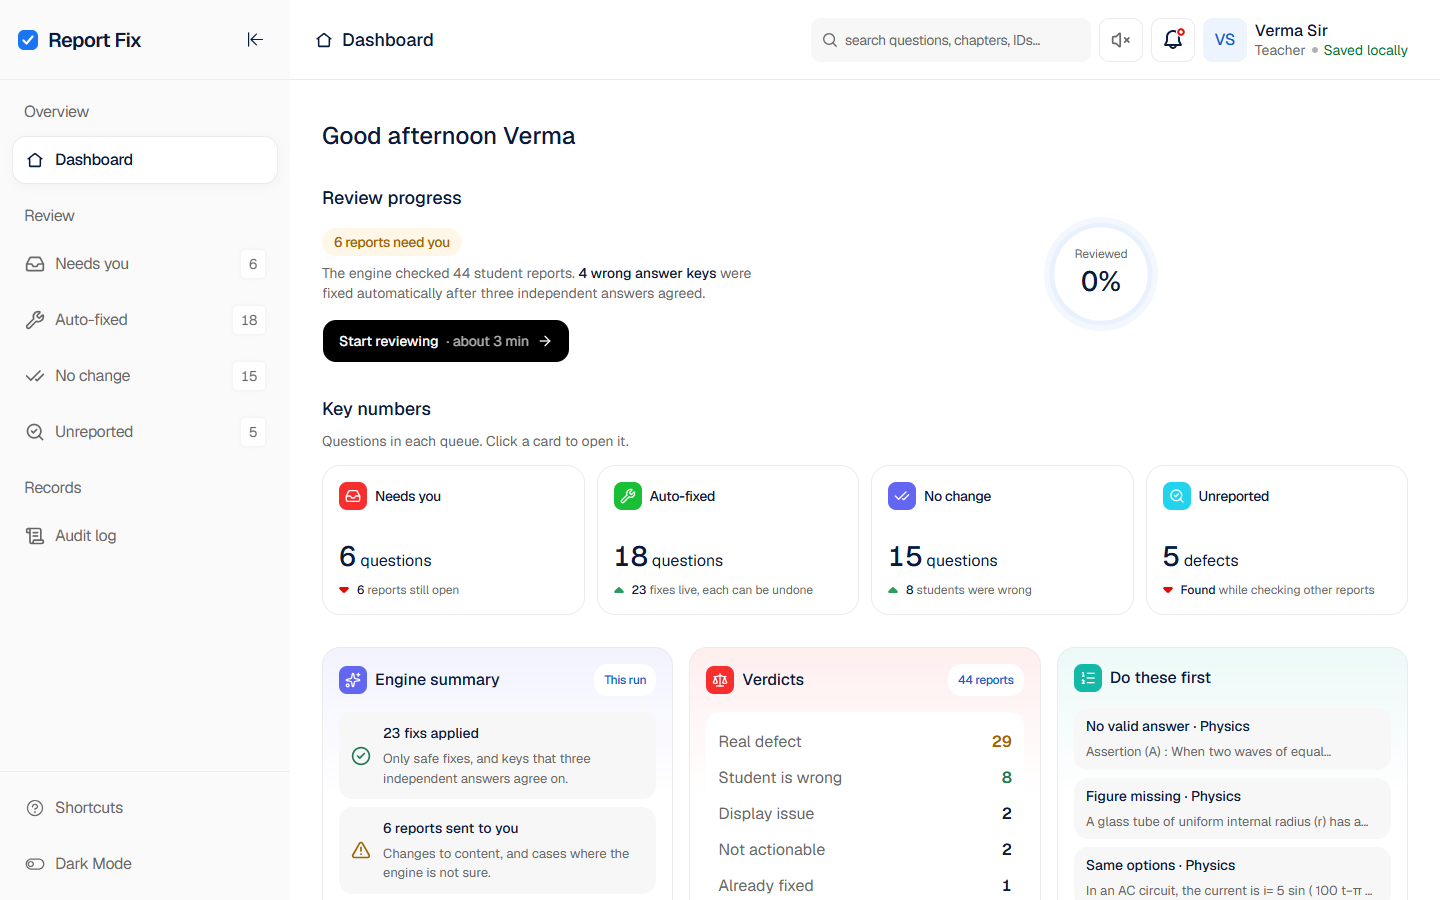
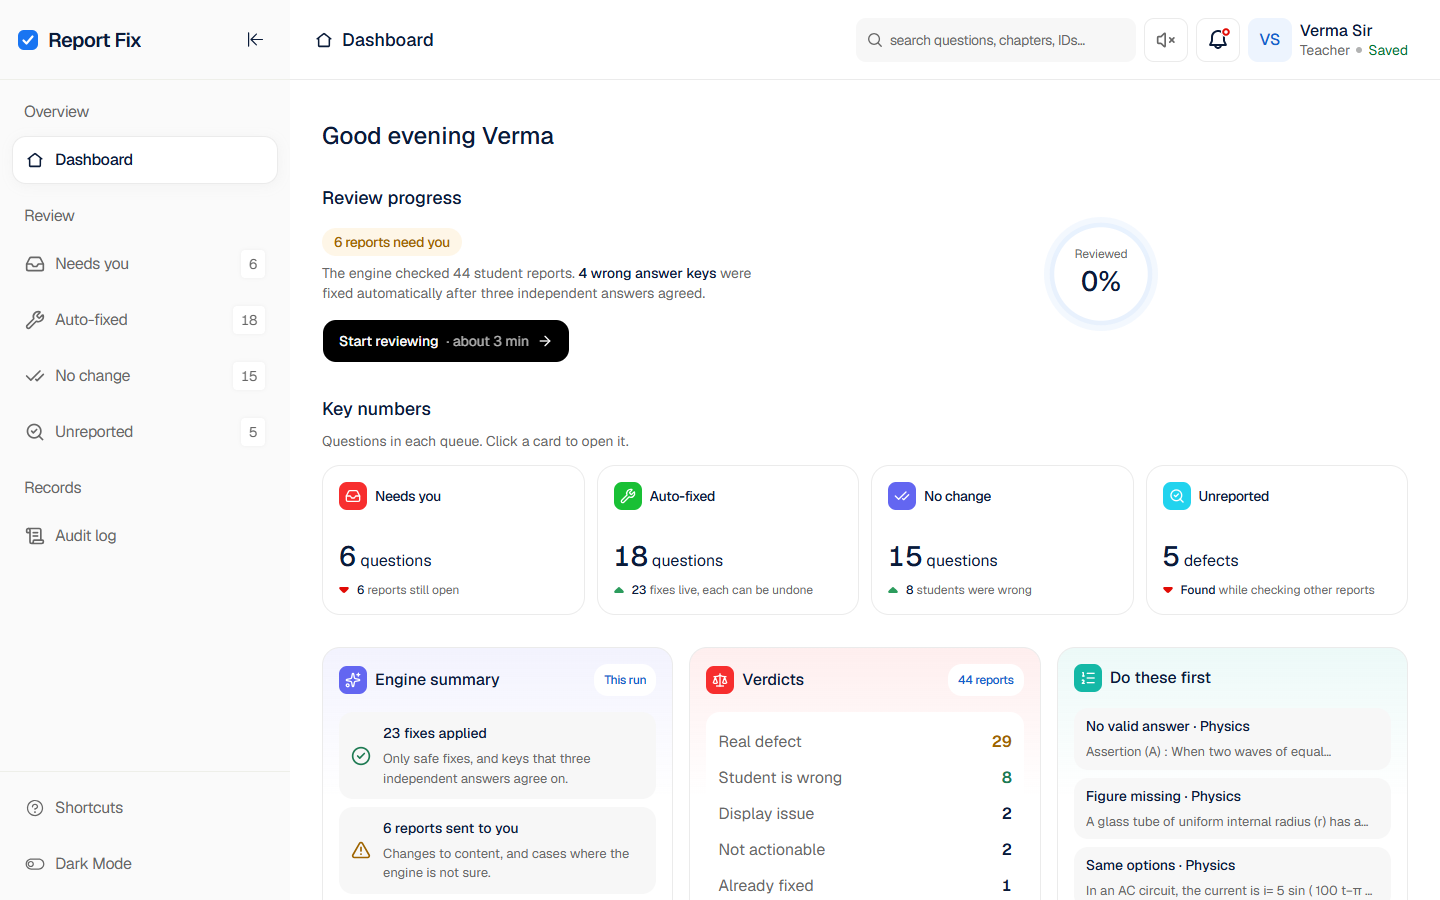
docs: refresh the README with live screenshots and deploy steps

diff --git a/README.md b/README.md
@@ -96,8 +96,11 @@ More features:
 - **Safe edits.** The teacher can edit any field. A format problem shows a warning, and the teacher can still save. The server refuses only an edit that it cannot apply, and the message tells how to correct it.
 - **Audit log.** Each action records the teacher's name and the time. An undo is a new entry. Nothing is deleted.
 - **Sounds.** A soft chime plays on each save and a soft tick on J and K. They come from [sensory-ui](https://www.sensory-ui.com/) (MIT). The speaker button turns them off.
+- **Unreported defects.** A separate page shows the 5 defects that no student reported, each with the fix that the engine suggests.
 
 ![The dashboard: review progress, key numbers and the questions to do first](docs/images/console-dashboard.png)
+
+![The unreported defects: each one shows the question and the suggested fix as "Before → After"](docs/images/console-unreported.png)
 
 ## Safety rules
 
@@ -170,13 +173,19 @@ Open http://localhost:5173. The frontend sends its API calls to port 8000.
 
 ## Deploy
 
+The live console runs at https://acadza-report-fix-90b2.onrender.com.
+
 The Render Blueprint (`render.yaml`) makes one free web service in Singapore. This is near the teachers in India and the database in Sydney.
 
 1. In Render, click **New**, then **Blueprint**, and select this repo.
-2. Set `DATABASE_URL` to the Supabase connection string.
-3. Deploy. The health check is `/api/health`.
+2. Give the Blueprint a name, and keep the branch `main`.
+3. Set `DATABASE_URL` to the Supabase **Session pooler** connection string. The free plan cannot reach the direct database address.
+4. Click **Deploy Blueprint**.
+5. Open `/api/health`. It must show `{"status":"ok","database":"supabase"}`.
 
-The built console (`frontend/dist`) is in the repo, so the deploy needs only Python.
+The built console (`frontend/dist`) is in the repo, so the deploy needs only Python. Each push to `main` deploys again.
+
+**Keep it awake.** The free plan sleeps after 15 minutes with no visits. An [UptimeRobot](https://uptimerobot.com) monitor opens `/api/health` every 5 minutes, so the service does not sleep.
 
 ## Project structure
 
@@ -217,6 +226,6 @@ To change a diagram, open its file from `docs/diagrams/` at [excalidraw.com](htt
 ## Known limits
 
 - **No login.** The teacher types a name, and the browser keeps it. The audit log trusts this name.
-- **The free Render plan sleeps** after 15 minutes with no visits. The next visit takes about 1 minute.
+- **The free Render plan can sleep.** The UptimeRobot monitor keeps it awake. If the monitor stops, the first visit after a sleep takes about 1 minute.
 - **The engine runs as a batch.** A new report needs a new run of `engine/run.py`.
 - **The green option** needs the CSS Custom Highlight API: Chrome or Edge 105+, Safari 17.2+ or Firefox 140+. Other browsers show the question without the green colour.
